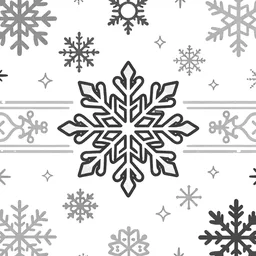
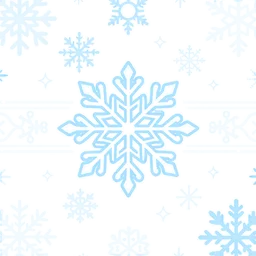
feat(gashapon): white capsule patterns, UR in crystal blue with a white edge
Claude-Session: https://claude.ai/code/session_01SemYkQLkTmSDDeYUKQcPZG

diff --git a/gashapon/css/style.css b/gashapon/css/style.css
@@ -114,8 +114,8 @@ body {
   /* 右下的暗面(月牙的下半) */
   box-shadow: inset -12px -14px 0 rgba(58, 40, 90, .16);
 }
-/* 花紋貼圖(2026-10-01):球由 CSS 畫,圖只負責花紋,灰階用 multiply 疊在稀有度色上 ——
-   白的地方就是稀有度色,顏色由程式決定(issue #5 共同規則)。
+/* 花紋貼圖(2026-10-01 改白):球由 CSS 畫,圖只負責花紋 —— 圖本身是白色雪花(UR 是水晶藍加白邊)
+   加透明度,直接疊在稀有度色上,底色由程式決定(issue #5 共同規則)。立體扭蛋機讀同一張圖。
    上下兩半共用同一張圖:各鋪成整顆球的大小,上半對齊頂、下半對齊底,裂開時花紋跟著兩半走。 */
 .capsule__half::before {
   content: "";
@@ -124,7 +124,6 @@ body {
   width: 100%;
   height: 200%;
   background: var(--pattern, none) center / cover no-repeat;
-  mix-blend-mode: multiply;
   pointer-events: none;
 }
 .capsule__half--top::before { top: 0; }
@@ -142,14 +141,14 @@ body {
 /* 落在下方的影子 */
 .capsule { filter: drop-shadow(0 12px 0 rgba(87, 66, 57, .18)); }
 
-.capsule[data-rarity="N"]   { --half-a: var(--r-N-a);   --half-b: var(--r-N-b);   --pattern: url(../img/pattern-N.webp?v=5bd43d8d); }
-.capsule[data-rarity="R"]   { --half-a: var(--r-R-a);   --half-b: var(--r-R-b);   --pattern: url(../img/pattern-R.webp?v=4a28a827); }
-.capsule[data-rarity="SR"]  { --half-a: var(--r-SR-a);  --half-b: var(--r-SR-b);  --pattern: url(../img/pattern-SR.webp?v=5fe470dd); }
-.capsule[data-rarity="SSR"] { --half-a: var(--r-SSR-a); --half-b: var(--r-SSR-b); --pattern: url(../img/pattern-SSR.webp?v=26007f16); }
+.capsule[data-rarity="N"]   { --half-a: var(--r-N-a);   --half-b: var(--r-N-b);   --pattern: url(../img/pattern-N.webp?v=b36879a3); }
+.capsule[data-rarity="R"]   { --half-a: var(--r-R-a);   --half-b: var(--r-R-b);   --pattern: url(../img/pattern-R.webp?v=c59a5357); }
+.capsule[data-rarity="SR"]  { --half-a: var(--r-SR-a);  --half-b: var(--r-SR-b);  --pattern: url(../img/pattern-SR.webp?v=f681b021); }
+.capsule[data-rarity="SSR"] { --half-a: var(--r-SSR-a); --half-b: var(--r-SSR-b); --pattern: url(../img/pattern-SSR.webp?v=59738a23); }
 /* SSR 的金:殼跟標籤都加一道金屬光澤的漸層(純色看起來像奶油黃) */
 .capsule[data-rarity="SSR"] .capsule__half { background: var(--gold); background-size: 100% 200%; }
 .capsule[data-rarity="SSR"] .capsule__half--bottom { background-position: 0 100%; }
-.capsule[data-rarity="UR"]   { --pattern: url(../img/pattern-UR.webp?v=6b924b7a); }
+.capsule[data-rarity="UR"]   { --pattern: url(../img/pattern-UR.webp?v=565edd30); }
 .capsule[data-rarity="UR"] .capsule__half {
   background: var(--rainbow);
   animation: shimmer 3.2s linear infinite;

diff --git a/tools/mascot-gen/gashapon.py b/tools/mascot-gen/gashapon.py
@@ -20,7 +20,7 @@ from PIL import Image
 
 import comfy
 from post import key_border, keep_largest, key_green
-from gashapon_art import anchors_from_pick, cut_disk, content_hash, stamp, clear_green_fringe, to_tint_gray, split_at, split_cells, square_about_seam, crop_margin, panel_bbox, fit_panel
+from gashapon_art import anchors_from_pick, cut_disk, content_hash, stamp, clear_green_fringe, to_tint_gray, to_white_pattern, split_at, split_cells, square_about_seam, crop_margin, panel_bbox, fit_panel
 
 ROOT = Path(__file__).resolve().parents[2]
 HERE = Path(__file__).resolve().parent
@@ -371,9 +371,16 @@ def cmd_build_patterns(args):
         rgb = np.asarray(Image.open(OUT / f'pattern-{r}' / f's{picks[f"pattern-{r}"]["n"]}.png').convert('RGB'))
         rgb = crop_margin(rgb, 0.10)   # 模型常在貼圖外圈畫一圈方框(N 的框在 2–8% 處)
         rgba = np.dstack([rgb, np.full(rgb.shape[:2], 255, np.uint8)])
-        im = Image.fromarray(to_tint_gray(rgba)[..., :3]).resize((256, 256), Image.LANCZOS)
+        gray = to_tint_gray(rgba)[..., 0]
+        gray = np.asarray(Image.fromarray(gray).resize((256, 256), Image.LANCZOS))
+        if r == 'UR':
+            # UR:淺水晶藍雪花 + 白邊(使用者 2026-10-01 從模擬圖選的 ④:300px 預覽上 5×5 最大值濾波,
+            # 也就是半徑 2px;256px 上一樣用 2px)
+            out = to_white_pattern(gray, fill=(0x7F, 0xD3, 0xFF), edge=(255, 255, 255), edge_px=2)
+        else:
+            out = to_white_pattern(gray)   # 白色雪花,透明底
         path = IMG / f'pattern-{r}.webp'
-        webp(im, path)
+        webp(Image.fromarray(out), path)   # 4 通道 → RGBA
         restamp(css, f'../img/pattern-{r}.webp', path)
     print('patterns done')
     write_preload_manifest()

diff --git a/tools/mascot-gen/test_gashapon_art.py b/tools/mascot-gen/test_gashapon_art.py
@@ -174,3 +174,29 @@ class ComposeCard(unittest.TestCase):
         self.assertEqual(out.size, (400, 300))
         self.assertEqual(out.getpixel((200, 250)), (255, 0, 0))   # 機台在底部中間
         self.assertEqual(out.getpixel((10, 10)), (0, 0, 255))     # 其他地方是背景
+
+
+from gashapon_art import to_white_pattern
+
+
+class WhitePattern(unittest.TestCase):
+    def test_alpha_is_inverted_gray(self):
+        gray = np.array([[255, 0], [128, 255]], np.uint8)
+        out = to_white_pattern(gray)
+        self.assertEqual(out.shape, (2, 2, 4))
+        self.assertEqual(out[0, 0, 3], 0)        # 原本白底 → 透明
+        self.assertEqual(out[0, 1, 3], 255)      # 原本黑線 → 不透明
+        self.assertEqual(tuple(out[0, 1, :3]), (255, 255, 255))
+
+    def test_fill_with_edge(self):
+        gray = np.full((9, 9), 255, np.uint8)
+        gray[4, 4] = 0
+        out = to_white_pattern(gray, fill=(0x7F, 0xD3, 0xFF), edge=(255, 255, 255), edge_px=1)
+        self.assertEqual(tuple(out[4, 4, :3]), (0x7F, 0xD3, 0xFF))   # 花紋本體是水晶藍
+        self.assertEqual(tuple(out[4, 5, :3]), (255, 255, 255))      # 外圍一圈白邊
+        self.assertEqual(out[4, 5, 3], 255)
+        self.assertEqual(out[0, 0, 3], 0)                             # 遠處仍透明
+
+
+if __name__ == '__main__':
+    unittest.main()

diff --git a/tools/mascot-gen/gashapon_art.py b/tools/mascot-gen/gashapon_art.py
@@ -69,6 +69,26 @@ def to_tint_gray(rgba, white=225):
     return np.dstack([g, g, g, rgba[..., 3]])
 
 
+def to_white_pattern(gray, fill=(255, 255, 255), edge=None, edge_px=0):
+    """花紋改成「有顏色的線 + 透明底」(2026-10-01 使用者決定:深色雪花改白色;UR 用水晶藍加白邊)。
+    透明度 = 灰階反轉:原本白底的地方全透明,黑線的地方不透明。edge 給的話,在花紋外圍再長一圈
+    edge_px 寬的邊(用最大值濾波擴張透明度),花紋本體蓋在邊上面。"""
+    a = 255 - gray.astype(np.int32)
+    h, w = gray.shape
+    rgb = np.empty((h, w, 3), np.float32)
+    rgb[:] = fill
+    alpha = a.astype(np.float32)
+    if edge is not None and edge_px > 0:
+        grown = a.copy()
+        for dy in range(-edge_px, edge_px + 1):
+            for dx in range(-edge_px, edge_px + 1):
+                grown = np.maximum(grown, np.roll(np.roll(a, dy, axis=0), dx, axis=1))
+        k = (a / 255.0)[..., None]
+        rgb = rgb * k + np.array(edge, np.float32) * (1 - k)
+        alpha = grown.astype(np.float32)
+    return np.dstack([np.clip(rgb, 0, 255).astype(np.uint8), np.clip(alpha, 0, 255).astype(np.uint8)])
+
+
 def split_at(rgba, y):
     return rgba[:y], rgba[y:]
 
